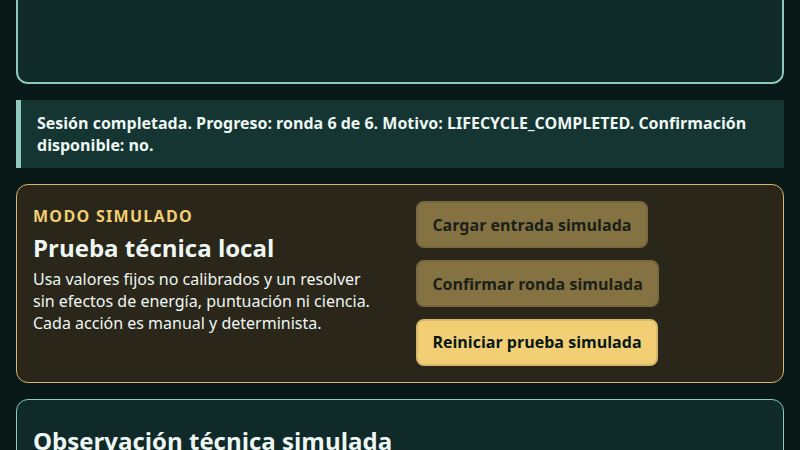
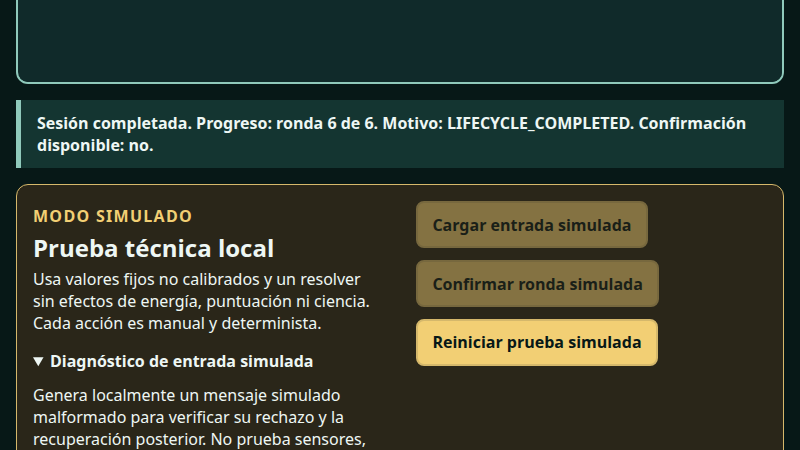
feat(console): add simulated malformed-input diagnostic

Changed region(s): [[0.0, 0.7778, 1.0, 1.0]]

diff --git a/tests/simulatedRoundSession.test.ts b/tests/simulatedRoundSession.test.ts
@@ -54,6 +54,60 @@ describe("local simulated round session", () => {
     expect(session.observe().trace).toHaveLength(1);
   });
 
+  it("rejects an initial malformed diagnostic without consuming sequence zero", () => {
+    const session = createSimulatedRoundSession();
+
+    expect(session.runMalformedInputDiagnostic()).toMatchObject({
+      status: "waiting-input",
+      roundIndex: 0,
+      reasonCode: "MALFORMED_JSON",
+      confirmationAllowed: false,
+    });
+    expect(session.observe()).toEqual({ acceptedInput: null, trace: [] });
+    expect(session.loadInput()).toMatchObject({ status: "ready", roundIndex: 0 });
+    expect(session.observe().acceptedInput?.sequence).toBe(0);
+  });
+
+  it("preserves a confirmed round and the next sequence across malformed recovery", () => {
+    const session = createSimulatedRoundSession();
+    session.loadInput();
+    session.confirm();
+    const trace = session.observe().trace;
+
+    expect(session.runMalformedInputDiagnostic()).toMatchObject({
+      status: "waiting-input",
+      roundIndex: 1,
+      reasonCode: "MALFORMED_JSON",
+      confirmationAllowed: false,
+    });
+    expect(session.observe()).toEqual({ acceptedInput: null, trace });
+    expect(session.loadInput()).toMatchObject({ status: "ready", roundIndex: 1 });
+    expect(session.observe().acceptedInput?.sequence).toBe(1);
+    expect(session.snapshot().roundIndex).toBe(1);
+    expect(session.confirm()).toMatchObject({ status: "waiting-input", roundIndex: 2 });
+    expect(session.observe().trace).toHaveLength(2);
+  });
+
+  it("ignores malformed diagnostics while ready or completed", () => {
+    const session = createSimulatedRoundSession();
+    session.loadInput();
+    const readySnapshot = session.snapshot();
+    const readyObservation = session.observe();
+
+    expect(session.runMalformedInputDiagnostic()).toEqual(readySnapshot);
+    expect(session.observe()).toEqual(readyObservation);
+    session.confirm();
+    for (let round = 1; round < 6; round += 1) {
+      session.loadInput();
+      session.confirm();
+    }
+    const completedSnapshot = session.snapshot();
+    const completedObservation = session.observe();
+
+    expect(session.runMalformedInputDiagnostic()).toEqual(completedSnapshot);
+    expect(session.observe()).toEqual(completedObservation);
+  });
+
   it("completes exactly six simulated rounds without ambient entropy", () => {
     const run = () => {
       const session = createSimulatedRoundSession();

diff --git a/src/main.ts b/src/main.ts
@@ -13,7 +13,8 @@ if (statusTarget === null) throw new Error("Missing console status target.");
 const loadInputButton = document.querySelector<HTMLButtonElement>("#load-simulated-input");
 const confirmButton = document.querySelector<HTMLButtonElement>("#confirm-simulated-round");
 const resetButton = document.querySelector<HTMLButtonElement>("#reset-simulated-session");
-if (loadInputButton === null || confirmButton === null || resetButton === null) {
+const diagnosticButton = document.querySelector<HTMLButtonElement>("#run-malformed-input-diagnostic");
+if (loadInputButton === null || confirmButton === null || resetButton === null || diagnosticButton === null) {
   throw new Error("Missing simulated controls.");
 }
 const announcement = document.querySelector<HTMLElement>("#observation-announcement");
@@ -35,6 +36,7 @@ const renderSession = (): void => {
   loadInputButton.disabled = snapshot.status !== "waiting-input";
   confirmButton.disabled = !snapshot.confirmationAllowed;
   resetButton.disabled = snapshot.status !== "completed";
+  diagnosticButton.disabled = snapshot.status !== "waiting-input";
 };
 
 loadInputButton.addEventListener("click", () => {
@@ -49,6 +51,10 @@ resetButton.addEventListener("click", () => {
   session.reset();
   renderSession();
   loadInputButton.focus();
+});
+diagnosticButton.addEventListener("click", () => {
+  session.runMalformedInputDiagnostic();
+  renderSession();
 });
 renderSession();
 

diff --git a/src/application/round-session/createSimulatedRoundSession.ts b/src/application/round-session/createSimulatedRoundSession.ts
@@ -30,6 +30,7 @@ export interface SimulatedSessionObservation {
 
 export interface SimulatedRoundSession extends RoundSessionPort {
   readonly loadInput: () => RoundSessionSnapshot;
+  readonly runMalformedInputDiagnostic: () => RoundSessionSnapshot;
   readonly confirm: () => RoundSessionSnapshot;
   readonly reset: () => RoundSessionSnapshot;
   readonly observe: () => SimulatedSessionObservation;
@@ -120,6 +121,12 @@ export function createSimulatedRoundSession(): SimulatedRoundSession {
       if (current.status !== "waiting-input") return current;
       integration.ingest(simulatedInputLine(nextSequence));
       nextSequence += 1;
+      return snapshot();
+    },
+    runMalformedInputDiagnostic() {
+      const current = snapshot();
+      if (current.status !== "waiting-input") return current;
+      integration.ingest("{");
       return snapshot();
     },
     confirm() {

diff --git a/index.html b/index.html
@@ -41,6 +41,17 @@
               Usa valores fijos no calibrados y un resolver sin efectos de energía,
               puntuación ni ciencia. Cada acción es manual y determinista.
             </p>
+            <details class="simulation-diagnostic">
+              <summary>Diagnóstico de entrada simulada</summary>
+              <p>
+                Genera localmente un mensaje simulado malformado para verificar su
+                rechazo y la recuperación posterior. No prueba sensores, conexión ni
+                hardware.
+              </p>
+              <button id="run-malformed-input-diagnostic" type="button" disabled>
+                Probar rechazo local
+              </button>
+            </details>
           </div>
           <div class="simulation-actions">
             <button id="load-simulated-input" type="button">Cargar entrada simulada</button>

diff --git a/src/console/renderSimulatedObservation.ts b/src/console/renderSimulatedObservation.ts
@@ -25,7 +25,7 @@ export function renderSimulatedObservation(
 
   if (observation.acceptedInput === null) {
     targets.acceptedSummary.textContent = "Aún no hay una entrada simulada aceptada.";
-    targets.announcement.textContent = "Sin entrada simulada aceptada. Traza vacía.";
+    targets.announcement.textContent = `Sin entrada simulada aceptada. Rondas confirmadas: ${observation.trace.length}.`;
   } else {
     const input = observation.acceptedInput;
     targets.acceptedSummary.textContent = "Última entrada simulada aceptada:";

diff --git a/src/styles.css b/src/styles.css
@@ -122,6 +122,19 @@ h1 {
   gap: 0.75rem;
 }
 
+.simulation-diagnostic {
+  margin-top: 1rem;
+}
+
+.simulation-diagnostic summary {
+  font-weight: 800;
+  cursor: pointer;
+}
+
+.simulation-diagnostic p {
+  margin-block: 0.75rem;
+}
+
 button {
   min-height: 2.75rem;
   padding: 0.65rem 0.9rem;

diff --git a/odd/tasks/eco-105-console-observability.md b/odd/tasks/eco-105-console-observability.md
@@ -69,10 +69,31 @@ scientific effects or completed gameplay.
   - Rollback: revert ECO105-2 to remove reset/replay while preserving ECO105-1,
     the existing six-round loop and all canonical modules.
 
+- [x] **ECO105-3 — Diagnose and recover from malformed simulated input**
+  - Route: `delegated`; trigger evidence: simulated-session behavior, accessible
+    diagnostic UI, tests, browser recovery evidence and records span multiple files.
+  - Scenario: one fixed local malformed JSON line (`{`) exercises canonical
+    `MALFORMED_JSON`; no arbitrary editor or new parser semantics are allowed.
+  - Acceptance: only `waiting-input` accepts the diagnostic; it clears exposed
+    accepted values, preserves round/trace, disables confirmation and does not
+    consume sequence or advance lifecycle. The next normal load succeeds with the
+    expected sequence and confirmation remains a separate action.
+  - UX: place the action inside collapsed native `<details>` with explicit copy
+    that it proves only local simulated rejection/recovery, not sensors, connection
+    or hardware. Announcements must report the actual confirmed-round count.
+  - Boundaries: no protocol/adapter/integration/lifecycle/manifest changes; no
+    serial, timeout, reconnect, retry scheduling, firmware, units or gameplay.
+  - Verification: focused/full Vitest, typecheck, build, Node references, Chrome
+    diagnostic/recovery plus both replays, port/offline regressions, scans and diff.
+  - Delivery: `ask-on-risk`; one cohesive work unit forecast at 240–330 authored
+    lines, with hard stop before commit above 400.
+  - Rollback: revert ECO105-3 while preserving ECO105-1/2 and canonical modules.
+
 ## Progress and evidence
 
 - Branch: `feat/eco-105-simulated-observability` from `4ddbecf`.
 - ECO105-2 branch: `feat/eco-105-simulated-restart` from `9bed727`.
+- ECO105-3 branch: `feat/eco-105-malformed-diagnostic` from `78dfeb8`.
 - Required UX review: project-specific `@revisor-ux` is not available in the
   current agent registry; use a read-only UX/readability review and record that
   this is not equivalent to the missing specialist review.
@@ -127,6 +148,28 @@ scientific effects or completed gameplay.
 - Rollback: remove `reset()` and its tests, the reset button/wiring, replay smoke
   assertions/evidence and these ECO105-2 entries; ECO105-1 and canonical modules
   remain intact. Human and `@revisor-ux` review remain pending.
+- ECO105-3 result: `runMalformedInputDiagnostic()` ingests only `{` and only from
+  `waiting-input`; it preserves sequence, round and trace while canonical state
+  reports `MALFORMED_JSON` with no accepted values or confirmation. Valid load and
+  confirmation remain subsequent separate actions.
+- Observed checks: focused Vitest 7/7, full Vitest 67/67, typecheck, build, Node
+  references 165/165, Chrome smoke, port impostor 1/1, offline smoke and negatives
+  2/2, layer/network/entropy/boundary scans and whitespace passed. Chrome 156
+  observed the collapsed diagnostic opening, rejection, zero accepted rows,
+  unchanged trace, live counts 0/1, ready recovery, two identical six-round runs,
+  one canvas, desktop/mobile containment and zero bounded JavaScript errors.
+- Runtime limits: only local malformed simulated-message rejection/recovery was
+  exercised. It does not test sensors, connection, hardware, serial, timeout,
+  firmware, accessibility with assistive technology, gameplay or science.
+- Authored size: 252 lines (`228` additions and `24` deletions) across 15 text
+  paths, excluding the generated PNG; below the 400-line hard stop. Planned
+  identity: `feat(console): add simulated malformed-input diagnostic`.
+- Fallback review found no code or UX defects after the strengthened count-0/1,
+  exact-trace and geometry evidence; its only blocker was the stale authored-size
+  record corrected above. This does not replace unavailable `@revisor-ux` approval.
+- ECO105-3 rollback: remove the session method/test cases, native diagnostic UI and
+  wiring, browser assertions/evidence and these records; ECO105-1/2 and all
+  canonical modules remain. Human and `@revisor-ux` review remain pending.
 
 ## Next step
 

diff --git a/evidencias/ECO-101/product-browser-smoke/report.md b/evidencias/ECO-101/product-browser-smoke/report.md
@@ -1,7 +1,7 @@
 # ECO-101 product browser smoke
 
-The harness reproducibly observes the root product shell, one Phaser canvas, and
-two identical explicitly simulated six-round runs separated by ECO105-2 reset.
+The harness reproducibly observes local malformed-input rejection and recovery,
+one Phaser canvas, and two identical simulated six-round runs separated by reset.
 It does not add a browser dependency. ECO-101 remains in progress.
 
 ## Reproduce
@@ -18,6 +18,11 @@ The harness starts root Vite on `127.0.0.1:4173` with `--strictPort`, waits for 
 - Browser: `Google Chrome 156.0.8078.47`.
 - Result: `PASS`.
 - Product checks: title marker, `EcoGrid: Ciudad al Límite`, `Consola local secundaria`, visible simulated-mode label, initial waiting state, confirmation unavailable, and a canvas under `#game-container` all present.
+- Diagnostic: native details opened; the fixed local malformed message produced
+  `MALFORMED_JSON`, zero accepted rows, unchanged empty trace, enabled load,
+  disabled confirm/reset, and live text `Rondas confirmadas: 0`. A subsequent
+  valid load reached ready before the separate confirmation. After round 1, the
+  same rejection preserved one trace row and announced `Rondas confirmadas: 1`.
 - Interaction: the first six loads and confirmations reached `completed`; reset
   then restored waiting round 1/6 with `DEVICE_DISCONNECTED`, zero accepted `dd`
   fields, zero trace rows, load enabled, confirm/reset disabled and focus on load.
@@ -25,23 +30,24 @@ The harness starts root Vite on `127.0.0.1:4173` with `--strictPort`, waits for 
   exact nine accepted fields and all six ordered trace rows/sequences. The same
   sole canvas node remained mounted; terminal load/confirm were disabled and
   reset was enabled.
-- Desktop layout: the explanatory control copy retained at least 240 CSS pixels,
-  the three actions did not overlap, and panel/trace geometry stayed horizontally
-  contained.
+- Desktop layout: explanatory copy retained at least 240 CSS pixels; diagnostic
+  summary/button and the three primary actions had non-zero, contained,
+  non-overlapping geometry; panel/trace geometry stayed contained.
 - Mobile check: at 390 × 844 CSS pixels the document had no horizontal overflow,
-  all three controls, canvas, observation panel and six trace rows had non-zero
-  geometry contained within the viewport width.
+  all three primary controls, diagnostic summary/button, canvas, observation panel
+  and six trace rows had non-zero contained geometry without overlap.
 - Canvas: backing size 960 × 540; displayed size 764 × 432, both non-zero.
-- Screenshot after the second run: 800 × 450 PNG, 52,320 bytes, SHA-256
[1 lines of base64/hex data omitted]
+- Screenshot after the second run: 800 × 450 PNG, 62,611 bytes, SHA-256
[1 lines of base64/hex data omitted]
 - Error signal: zero `Runtime.exceptionThrown`, console `error`, or JavaScript `Log.entryAdded` events observed through CDP.
 - Negative regression: an impostor returned HTTP 200 with the exact title/canvas markers; strict-port Vite exited non-zero before Chrome/PASS, then the test rebound port 4173.
 
 ## Limits and rollback
 
 The bounded error signal excludes network/resource failures that are not
-JavaScript runtime or console errors. This is a local simulated technical replay,
-not hardware reconnection, serial recovery/resynchronization, gameplay replay,
+JavaScript runtime or console errors. This is local malformed simulated-message
+rejection/recovery and technical replay, not sensors, connection, hardware,
+serial recovery/resynchronization, gameplay replay,
 scientific reproducibility, accessibility approval, other-browser coverage,
 prolonged performance, physics, calibration or physical integration.
 

diff --git a/docs/07_PROCESO_IA.md b/docs/07_PROCESO_IA.md
@@ -40,6 +40,7 @@ El documento oficial (pág. 2, Regla III) exige registrar: herramienta usada, pr
 | 2026-11-08 | ECO-108 / ECO108-5 | OpenCode / GPT-5.6 | equipo | sustituir el candidato Uno por un diseño documental ESP32 de 30 pines | BOM, manual, arquitectura, evidencias, plantillas, riesgos, backlog, estado y tracker ODD | decisión humana explícita; revisión eléctrica física PENDIENTE | comprobaciones documentales, enlaces, contradicciones, aritmética y whitespace; runtime `N/A` | señales/ADC restringidos provisionalmente a 3,3 V, sin asignar pines ni inferir identidad, USB, compra o banco | CANDIDATO DOCUMENTAL; ECO-108/G1 ABIERTOS |
 | 2026-11-08 | ECO-105 / ECO105-1 | OpenCode / GPT-5.6 | equipo | exponer valores simulados aceptados y traza técnica canónica | sesión simulada, panel, tests, smoke Chrome y vistas mínimas | revisión humana y `@revisor-ux` PENDIENTES | Vitest 62/62, Node 165/165, typecheck, build, Chrome, offline, scans y whitespace PASS | observación derivada e inmutable, render de texto y seis trazas sin unidades ni efectos | REBANADA TÉCNICA VERIFICADA; ECO-105 PENDIENTE |
 | 2026-11-11 | ECO-105 / ECO105-2 | OpenCode / GPT-5.6 | equipo | reiniciar sólo una prueba simulada completada y verificar replay sin recarga | sesión simulada, control nativo, tests, smoke/reportes y vistas mínimas | revisión humana y `@revisor-ux` PENDIENTES | Vitest 64/64, Node 165/165, typecheck, build, dos ciclos Chrome idénticos, offline 41+3, regresiones y scans PASS | integración simulada nueva con secuencia cero; foco vuelve a carga; un solo Phaser; sin cambiar puertos o módulos canónicos | REPLAY TÉCNICO LOCAL VERIFICADO; ECO-101 EN CURSO; ECO-105 PENDIENTE |
+| 2026-11-11 | ECO-105 / ECO105-3 | OpenCode / GPT-5.6 | equipo | verificar rechazo y recuperación de una entrada simulada malformada fija | sesión simulada, diagnóstico colapsable, tests, smoke/PNG/reportes y vistas mínimas | revisión humana y `@revisor-ux` PENDIENTES | Vitest focalizado 7/7 y total 67/67, Node 165/165, typecheck, build, Chrome, offline, negativas y scans PASS | `{` usa integración canónica sin consumir secuencia ni confirmar; anuncio informa trazas reales; sin parser, transporte o hardware | DIAGNÓSTICO LOCAL VERIFICADO; ECO-101 EN CURSO; ECO-105 PENDIENTE |
 
 ## Protocolo
 - Tras cada tarea, anotar decisiones afectadas, fórmula comprobada o prueba testable, resultado observado y revisión humana.

diff --git a/docs/08_ESTADO_DEL_PROYECTO.md b/docs/08_ESTADO_DEL_PROYECTO.md
@@ -1,6 +1,6 @@
 # ESTADO / RELEVO OBLIGATORIO ENTRE SESIONES
 
-**Última actualización:** 2026-11-11 (ECO105-2 añadió reinicio y replay técnico local; ECO-105 sigue pendiente).
+**Última actualización:** 2026-11-11 (ECO105-3 añadió diagnóstico malformado simulado local; ECO-105 sigue pendiente).
 **Fase actual:** F0, contrato híbrido y preparación del gate de inventario.
 **Tarea vigente:** ECO-101 establece en paralelo el bootstrap técnico de la consola local secundaria. ECO-108 y G1 siguen abiertos; ECO-002 continúa BLOQUEADA y el bootstrap no consume sus modelos.
 **Producto físico/hardware:** NO EXISTE AÚN. Hay un bootstrap técnico de consola, pero no tablero, componentes confirmados, firmware, calibración, protocolo integrado, carcasa ni pruebas HIL.
@@ -200,6 +200,11 @@ El equipo debe registrar inventario real y decidir componentes, presupuesto, rol
   observó estado fresco, foco seguro, un único canvas y un segundo ciclo idéntico
   de seis rondas; 64/64 Vitest, 165/165 referencias, typecheck, build y smokes
   pasaron. Es replay técnico local, no reconexión, gameplay, ciencia o hardware.
+- **ECO105-3:** sólo `waiting-input` admite el diagnóstico fijo `{`. Chrome observó
+  `MALFORMED_JSON`, cero valores aceptados, traza intacta, anuncio con conteo real,
+  recuperación y confirmación separada; luego preservó dos ciclos idénticos y un
+  canvas. Vitest 67/67, referencias 165/165, typecheck, build, smokes, negativas y
+  scans pasaron. Es rechazo/recuperación simulada local, no sensores ni hardware.
 - **Límites:** la evidencia offline prueba recursos productivos locales bajo HTTP loopback y persistencia sin refresh tras apagar el servidor; no comprueba `file://`, PWA, interacción, accesibilidad asistida, otros navegadores/equipos, rendimiento prolongado, gameplay o integración física. No consume ECO-002 ni implementa ciencia, control o score.
 - **Rollback:** revertir el work unit productivo retira entrada raíz, dependencias, pruebas y vistas asociadas; el spike histórico permanece aislado y ninguna ruta científica lo importa.
 

diff --git a/evidencias/ECO-101/offline-static-smoke/report.md b/evidencias/ECO-101/offline-static-smoke/report.md
@@ -10,8 +10,8 @@
 ## Request inventory
 
 - 200 Document http://127.0.0.1:4174/
-- 200 Script http://127.0.0.1:4174/assets/index-CVGkZghj.js
-- 200 Stylesheet http://127.0.0.1:4174/assets/index-CaLpFewH.css
+- 200 Script http://127.0.0.1:4174/assets/index-DtFqP8Hz.js
+- 200 Stylesheet http://127.0.0.1:4174/assets/index-DvMxaEuM.css
[3 lines of base64/hex data omitted]

diff --git a/docs/09_PLAN_PRUEBAS.md b/docs/09_PLAN_PRUEBAS.md
@@ -126,6 +126,10 @@ ECO105-2 rechaza reset en estados inicial, listo y entre rondas sin alterar snap
 u observación; tras completar exige estado fresco, salida vacía e inmutable y un
 segundo replay idéntico. Chrome verifica además foco en carga, controles, geometría
 desktop/móvil, un único canvas y cero errores JavaScript acotados.
+ECO105-3 cubre diagnóstico malformado inicial y tras una confirmación, secuencia
+no consumida, traza/ronda preservadas y no-op en listo/completado. Chrome abre el
+`details`, observa `MALFORMED_JSON`, conteo anunciado real, recuperación antes de
+confirmar y conserva ambos replays, geometría desktop/móvil y canvas único.
 
 Evidencia local final tras `727c36b` el 2026-11-03: scorecard y paquete ejecutaron
 67/67 pruebas PASS y la suite conjunta con simulador/adaptador ejecutó 94/94
